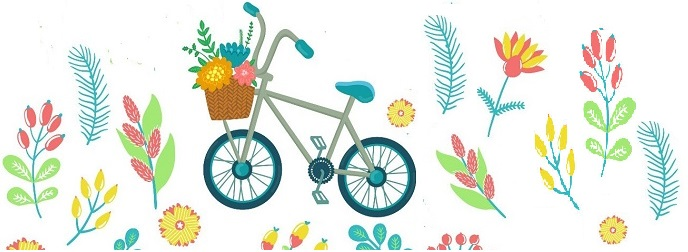
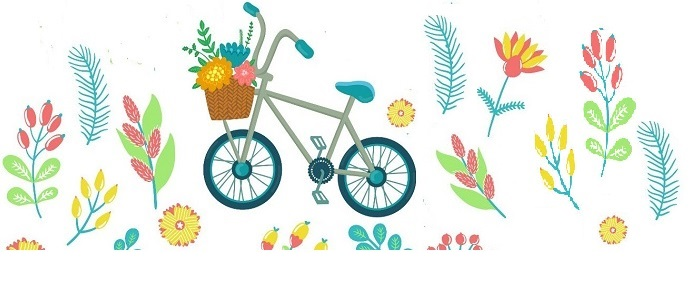
add calendar background seasons img

diff --git a/mobile-app/src/pages/calendar2/ion-calendar.html b/mobile-app/src/pages/calendar2/ion-calendar.html
@@ -19,7 +19,7 @@
                 [locale]="locale"
                 [headerTemplate]="customHeaderTemplate">
         </mwl-calendar-month-view>
-    <ion-slides
+    <ion-slides style="height: calc(100% - 85px);"
                 (ionSlideWillChange)="slideWillChange()"
                 (ionSlideNextStart)="slideNextStart()"
                 (ionSlidePrevStart)="slidePrevStart()"
@@ -89,7 +89,10 @@
             </mwl-calendar-month-view>
         </ion-slide>
     </ion-slides>
-  <div class="spring-bicycle-background"></div>
+  <div *ngIf="season() === 'winter'" class="winter-rabbit-background"></div>
+  <div *ngIf="season() === 'spring'" class="spring-bicycle-background"></div>
+  <div *ngIf="season() === 'summer'" class="autumn-background"></div>
+  <div *ngIf="season() === 'autumn'" class="autumn-background"></div>
 </ion-content>
 
 <ng-template

diff --git a/mobile-app/src/pages/calendar2/ion-calendar.ts b/mobile-app/src/pages/calendar2/ion-calendar.ts
@@ -141,4 +141,29 @@ export class IonCalendarPage {
         return result;
     }
 
+
+
+    private season() : string {
+      const month = this.currentDate.getMonth() + 1;
+      switch(month.toString()) {
+        case '12':
+        case '1':
+        case '2':
+          return 'winter';
+        case '3':
+        case '4':
+        case '5':
+          return 'spring';
+        case '6':
+        case '7':
+        case '8':
+          return 'summer';
+        case '9':
+        case '10':
+        case '11':
+          return 'autumn';
+
+      }
+    }
+
 }

diff --git a/mobile-app/src/pages/calendar2/ion-calendar.scss b/mobile-app/src/pages/calendar2/ion-calendar.scss
@@ -123,3 +123,22 @@
   position: absolute;
   bottom: 0;
 }
+
+.autumn-background {
+  width:100%;
+  height:100%;
+  background-size: contain;
+  background: url("/assets/imgs/background/autumn.jpg") repeat-x center bottom;
+  opacity: 0.3;
+  position: absolute;
+  bottom: 0;
+}
+.winter-rabbit-background {
+  width:100%;
+  height:100%;
+  background-size: contain;
+  background: url("/assets/imgs/background/winter-rabbit.jpg") repeat-x center bottom;
+  opacity: 0.3;
+  position: absolute;
+  bottom: 0;
+}

diff --git a/mobile-app/src/pages/settings/settings.scss b/mobile-app/src/pages/settings/settings.scss
@@ -6,6 +6,10 @@
   .scroll-content {
     background-color: #f1f1f1;
   }
+  ion-card {
+    position: relative;
+    z-index: 50;
+  }
 }
 
 .holiday-icon {
@@ -42,3 +46,13 @@ ion-card {
   width: 100% !important;
   margin: 20px 0px !important;
 }
+
+//.vase-background {
+//  width:100%;
+//  height:100%;
+//  background-size: contain;
+//  background: url("/assets/imgs/background/leave.jpg") repeat-x center bottom;
+//  opacity: 0.1;
+//  position: absolute;
+//  bottom: 0;
+//}

diff --git a/mobile-app/src/pages/settings/profile-modal/profile-modal.scss b/mobile-app/src/pages/settings/profile-modal/profile-modal.scss
@@ -1,8 +1,8 @@
-.strawberry-background {
+.leave-background {
   width:100%;
   height:100%;
   background-size: contain;
-  background: url("/assets/imgs/background/strawberry.jpg") repeat-x center bottom;
+  background: url("/assets/imgs/background/leave.jpg") repeat-x center bottom;
   opacity: 0.3;
   position: absolute;
   bottom: 0;

diff --git a/mobile-app/src/pages/settings/profile-modal/profile-modal.html b/mobile-app/src/pages/settings/profile-modal/profile-modal.html
@@ -41,5 +41,5 @@
         </ion-item>
 
     </ion-list>
-  <div class="strawberry-background"></div>
+  <div class="leave-background"></div>
 </ion-content>

diff --git a/mobile-app/src/pages/settings/settings.html b/mobile-app/src/pages/settings/settings.html
@@ -61,4 +61,5 @@
             </ion-item>
         </ion-list>
     </ion-card>
+  <div class="vase-background"></div>
 </ion-content>
